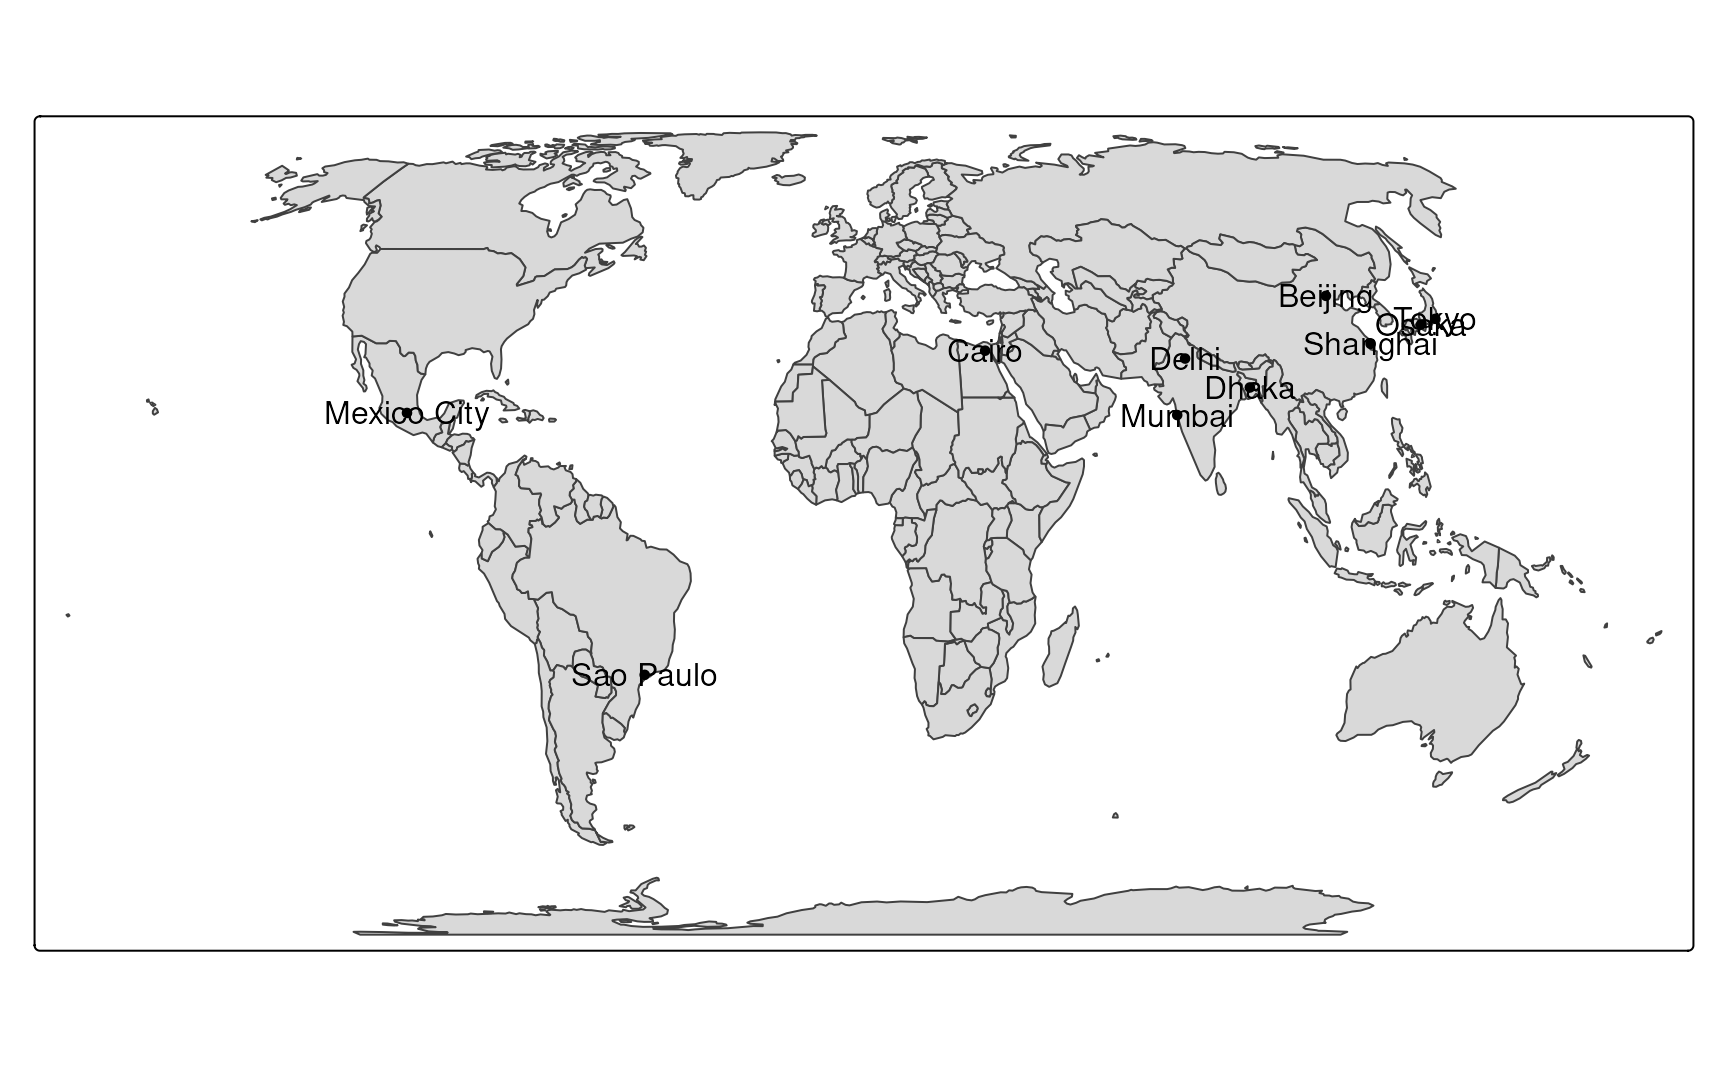
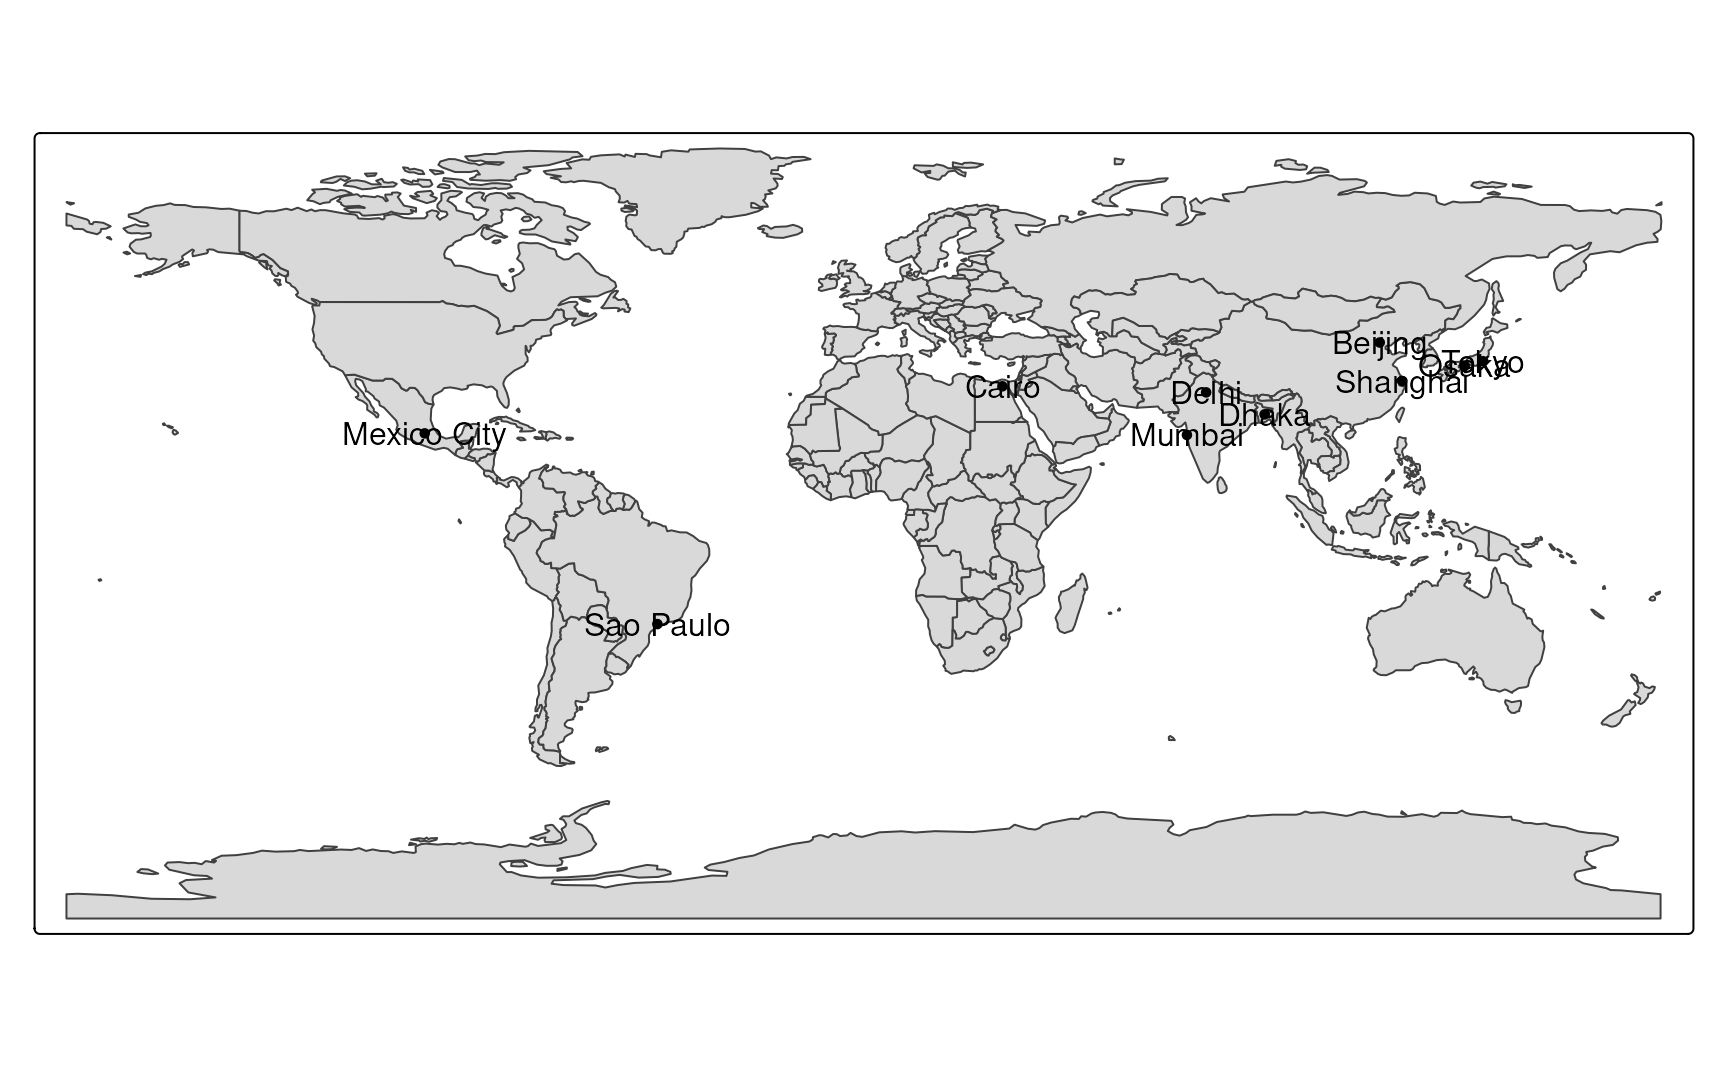
Deploy commit: improves map proj code examples 9df5ef8cb4f298921b5f3a27d5f2954a8d6e44f1

Changed region(s): [[0.0312, 0.0928, 0.9688, 0.8969], [0.9062, 0.6186, 0.9688, 0.7113]]

diff --git a/map-projections.html b/map-projections.html
@@ -398,7 +398,8 @@ gtag('config', 'G-ER2GMPEJNF', { 'anonymize_ip': true});
 <span>  <span class="fu"><a href="https://r-tmap.github.io/tmap/reference/tm_polygons.html">tm_polygons</a></span><span class="op">(</span><span class="op">)</span> <span class="op">+</span></span>
 <span>  <span class="fu"><a href="https://r-tmap.github.io/tmap/reference/tm_shape.html">tm_shape</a></span><span class="op">(</span><span class="va">worldcities</span><span class="op">)</span> <span class="op">+</span></span>
 <span>  <span class="fu"><a href="https://r-tmap.github.io/tmap/reference/tm_symbols.html">tm_dots</a></span><span class="op">(</span><span class="op">)</span> <span class="op">+</span></span>
-<span>  <span class="fu"><a href="https://r-tmap.github.io/tmap/reference/tm_text.html">tm_text</a></span><span class="op">(</span><span class="st">"name"</span><span class="op">)</span></span>
+<span>  <span class="fu"><a href="https://r-tmap.github.io/tmap/reference/tm_text.html">tm_text</a></span><span class="op">(</span><span class="st">"name"</span><span class="op">)</span> <span class="op">+</span></span>
+<span>  <span class="fu"><a href="https://r-tmap.github.io/tmap/reference/tm_crs.html">tm_crs</a></span><span class="op">(</span><span class="st">"EPSG:4326"</span><span class="op">)</span></span>
 <span><span class="va">tm</span></span></code><button title="Copy to Clipboard" class="code-copy-button"><i class="bi"></i></button></pre></div>
 <div class="cell-output-display">
 <div class="quarto-figure quarto-figure-center">
@@ -420,7 +421,8 @@ gtag('config', 'G-ER2GMPEJNF', { 'anonymize_ip': true});
 <div class="cell" data-layout-align="center">
 <div class="sourceCode" id="cb4"><pre class="downlit sourceCode r code-with-copy"><code class="sourceCode R"><span><span class="va">tm</span> <span class="op">+</span></span>
 <span>  <span class="fu"><a href="https://r-tmap.github.io/tmap/reference/tm_crs.html">tm_crs</a></span><span class="op">(</span><span class="st">"+proj=eck4"</span><span class="op">)</span> <span class="op">+</span></span>
-<span>  <span class="fu"><a href="https://r-tmap.github.io/tmap/reference/tm_layout.html">tm_layout</a></span><span class="op">(</span>earth_boundary <span class="op">=</span> <span class="cn">TRUE</span>, frame <span class="op">=</span> <span class="cn">FALSE</span><span class="op">)</span></span></code><button title="Copy to Clipboard" class="code-copy-button"><i class="bi"></i></button></pre></div>
+<span>  <span class="fu"><a href="https://r-tmap.github.io/tmap/reference/tm_layout.html">tm_layout</a></span><span class="op">(</span>bg.color <span class="op">=</span> <span class="st">"lightblue"</span>,</span>
+<span>            earth_boundary <span class="op">=</span> <span class="cn">TRUE</span><span class="op">)</span></span></code><button title="Copy to Clipboard" class="code-copy-button"><i class="bi"></i></button></pre></div>
 <div class="cell-output-display">
 <div class="quarto-figure quarto-figure-center">
 <figure class="figure"><p><img src="figures/map-projections-5-1.png" class="img-fluid quarto-figure quarto-figure-center figure-img" style="width:100.0%"></p>
@@ -428,21 +430,19 @@ gtag('config', 'G-ER2GMPEJNF', { 'anonymize_ip': true});
 </div>
 </div>
 </div>
-<!-- customize -->
+<!-- tm + tm_style("natural") -->
 <div class="cell" data-layout-align="center">
-<div class="sourceCode" id="cb5"><pre class="downlit sourceCode r code-with-copy"><code class="sourceCode R"><span><span class="va">tm</span> <span class="op">+</span></span>
-<span>  <span class="fu"><a href="https://r-tmap.github.io/tmap/reference/tm_crs.html">tm_crs</a></span><span class="op">(</span><span class="st">"+proj=eck4"</span><span class="op">)</span> <span class="op">+</span></span>
-<span>  <span class="fu"><a href="https://r-tmap.github.io/tmap/reference/tm_layout.html">tm_layout</a></span><span class="op">(</span>earth_boundary <span class="op">=</span> <span class="cn">TRUE</span>, frame <span class="op">=</span> <span class="cn">FALSE</span><span class="op">)</span></span></code><button title="Copy to Clipboard" class="code-copy-button"><i class="bi"></i></button></pre></div>
 <div class="cell-output-display">
 <div class="quarto-figure quarto-figure-center">
-<figure class="figure"><p><img src="figures/map-projections-6-1.png" class="img-fluid quarto-figure quarto-figure-center figure-img" style="width:100.0%"></p>
+<figure class="figure"><p><img src="figures/unnamed-chunk-1-1.png" class="img-fluid quarto-figure quarto-figure-center figure-img" style="width:100.0%"></p>
 </figure>
 </div>
 </div>
 </div>
+<!-- https://proj.org/en/stable/operations/projections/index.html -->
 <!-- maybe bbox could be a part of tm_crs? -->
 <div class="cell" data-layout-align="center">
-<div class="sourceCode" id="cb6"><pre class="downlit sourceCode r code-with-copy"><code class="sourceCode R"><span><span class="fu"><a href="https://r-tmap.github.io/tmap/reference/tm_shape.html">tm_shape</a></span><span class="op">(</span><span class="va">worldvector</span>, bbox <span class="op">=</span> <span class="st">"FULL"</span><span class="op">)</span> <span class="op">+</span></span>
+<div class="sourceCode" id="cb5"><pre class="downlit sourceCode r code-with-copy"><code class="sourceCode R"><span><span class="fu"><a href="https://r-tmap.github.io/tmap/reference/tm_shape.html">tm_shape</a></span><span class="op">(</span><span class="va">worldvector</span>, bbox <span class="op">=</span> <span class="st">"FULL"</span><span class="op">)</span> <span class="op">+</span></span>
 <span>  <span class="fu"><a href="https://r-tmap.github.io/tmap/reference/tm_polygons.html">tm_polygons</a></span><span class="op">(</span><span class="op">)</span> <span class="op">+</span></span>
 <span>  <span class="fu"><a href="https://r-tmap.github.io/tmap/reference/tm_grid.html">tm_graticules</a></span><span class="op">(</span><span class="op">)</span> <span class="op">+</span></span>
 <span>  <span class="fu"><a href="https://r-tmap.github.io/tmap/reference/tm_crs.html">tm_crs</a></span><span class="op">(</span><span class="st">"+proj=ortho +lat_0=30 +lon_0=0"</span><span class="op">)</span><span class="op">+</span></span>
@@ -455,6 +455,7 @@ gtag('config', 'G-ER2GMPEJNF', { 'anonymize_ip': true});
 </div>
 </div>
 <!-- local? -->
+<!-- properies -->
 <!-- specific: south pole? -->
 
 

diff --git a/visual-variables.html b/visual-variables.html
@@ -887,7 +887,7 @@ Figure&nbsp;7.10: Example of a map where text sizes represent elevations of the 
 <span>             shape.scale <span class="op">=</span> <span class="fu">tm_scale</span><span class="op">(</span>values <span class="op">=</span> <span class="va">my_icons</span><span class="op">)</span><span class="op">)</span></span></code><button title="Copy to Clipboard" class="code-copy-button"><i class="bi"></i></button></pre></div>
 </div>
 <div class="cell" data-layout-align="center" data-layout-row="2">
-<div id="fig-tmsymshape" class="cell quarto-float quarto-figure quarto-figure-center anchored" data-layout-row="2" data-layout-align="center">
+<div id="fig-tmsymshape" class="cell quarto-float quarto-figure quarto-figure-center anchored" data-layout-align="center" data-layout-row="2">
 <figure class="quarto-float quarto-float-fig figure"><div aria-describedby="fig-tmsymshape-caption-0ceaefa1-69ba-4598-a22c-09a6ac19f8ca">
 <div class="cell-output-display">
 <div id="fig-tmsymshape-1" class="quarto-float quarto-figure quarto-figure-center anchored" data-fig-align="center">
